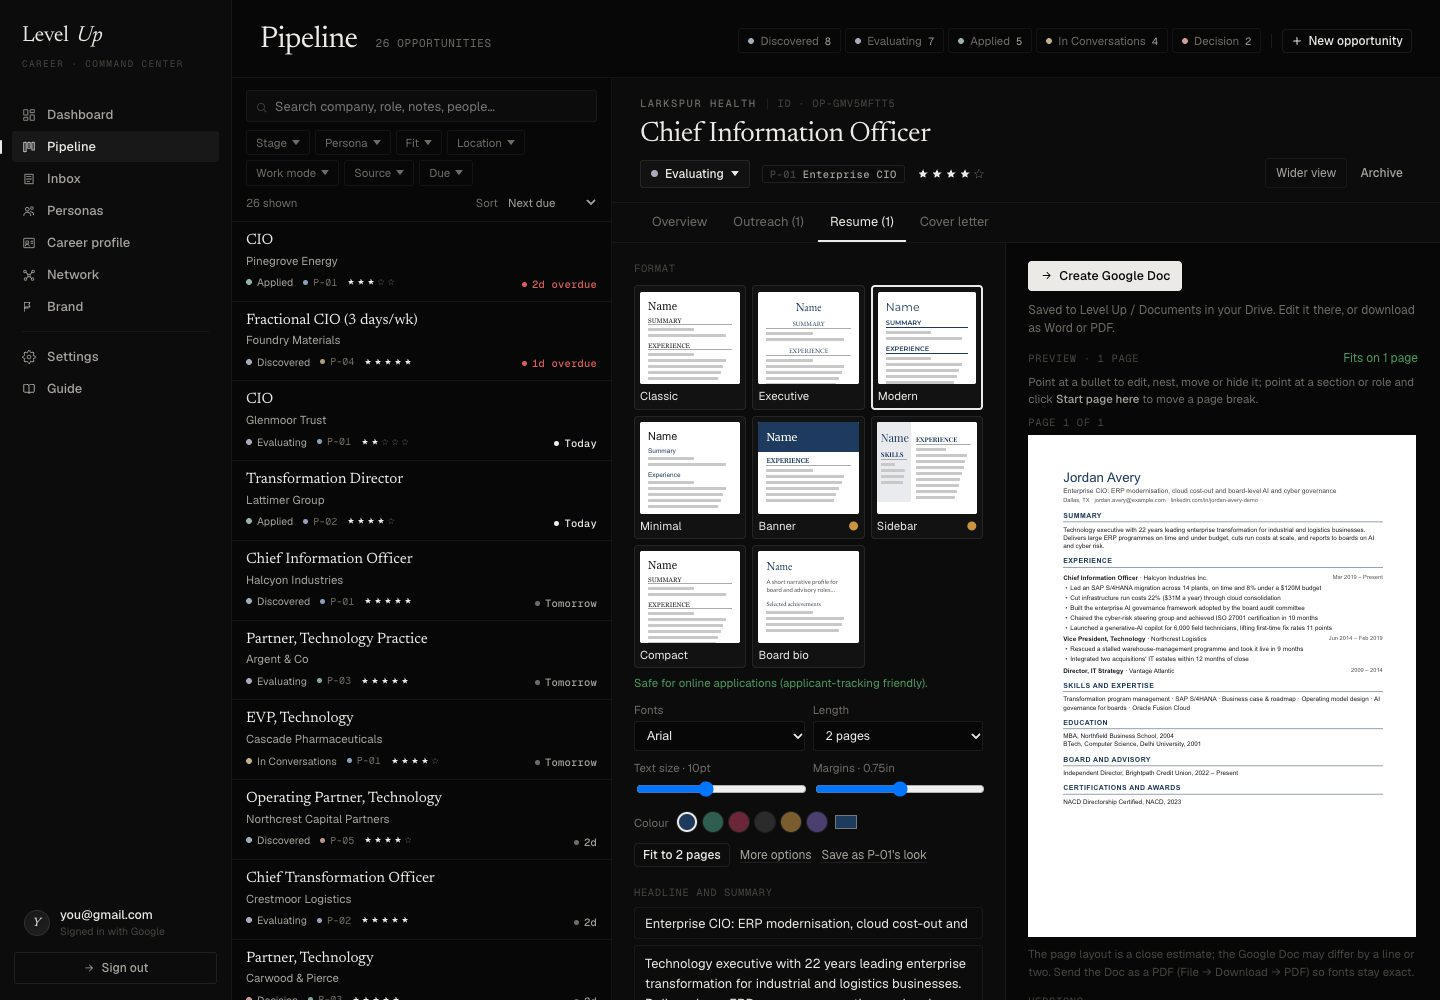
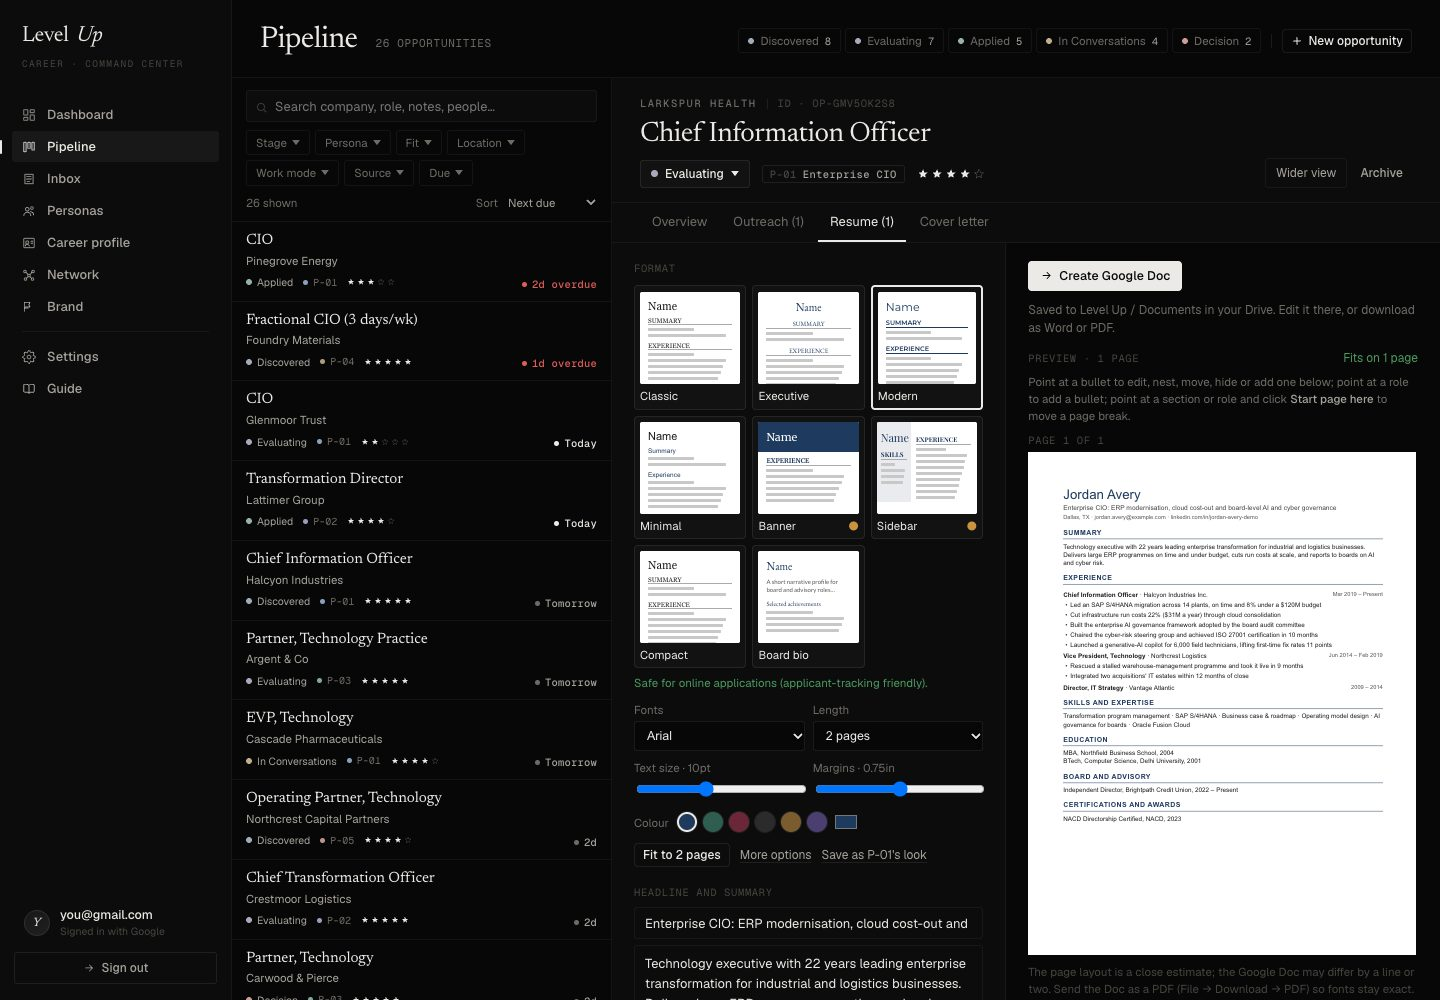
Resume: add your own bullets; list controls under each line
- + Add a bullet (list), + Bullet on role hover, + Below on bullet hover
- Your bullets stay in this resume only; Delete link; empty or cancelled ones removed
- Nest/move buttons moved under the text so wording gets full width

Changed region(s): [[0.7188, 0.372, 1.0, 0.837], [0.7188, 0.93, 1.0, 1.0]]

diff --git a/documents.jsx b/documents.jsx
@@ -169,8 +169,18 @@ function DocPreview({ model, targetPages, onMeasure, onBreaks, onBullet }) {
       paddingBottom: 2, margin: `${px(st.gap.section)}px 0 ${px(st.gap.para * 2)}px` }}>{st.caps ? t.toUpperCase() : t}</div>
   );
   const finishEdit = (save) => {
-    if (save && editing && onBullet) onBullet(editing.key, 'text', editing.text.replace(/\s*\n\s*/g, ' ').trim());
+    if (!editing) return;
+    const text = editing.text.replace(/\s*\n\s*/g, ' ').trim();
+    if (onBullet) {
+      // A bullet just added and left empty (or cancelled) is removed again.
+      if (editing.fresh && (!save || !text)) onBullet(editing.key, 'delete');
+      else if (save && text) onBullet(editing.key, 'text', text);
+    }
     setEditing(null);
+  };
+  const addBullet = (roleKey, afterKey) => {
+    const key = onBullet(roleKey, 'add', afterKey);
+    if (key) setEditing({ key, text: '', fresh: true });
   };
   const bullet = (t, j, level, key) => (
     <PvBullet key={j} text={t} level={level} mark={st.bullet} color={col} gap={px(st.gap.para)} scale={scale}
@@ -218,10 +228,10 @@ function DocPreview({ model, targetPages, onMeasure, onBreaks, onBullet }) {
       add('sec:' + sec.key, sectionHead(sec.title, false), { brk: true, keepNext: true, label: sec.title });
       if (sec.key === 'experience') {
         sec.items.forEach((x) => {
-          add(x.key, roleHead(x), { brk: true, keepNext: x.bullets.length > 0 });
+          add(x.key, roleHead(x), { brk: true, keepNext: x.bullets.length > 0, role: true });
           x.bullets.forEach((t, j) => {
             const key = (x.bulletKeys || [])[j] || x.key + ':' + j;
-            add(key, bullet(t, j, (x.bulletLevels || [])[j] || 0, key), { brk: true, tools: { text: t, level: (x.bulletLevels || [])[j] || 0, nest: j > 0, up: j > 0, down: j < x.bullets.length - 1 } });
+            add(key, bullet(t, j, (x.bulletLevels || [])[j] || 0, key), { brk: true, tools: { text: t, level: (x.bulletLevels || [])[j] || 0, nest: j > 0, up: j > 0, down: j < x.bullets.length - 1, role: x.key } });
           });
         });
       } else if (sec.key === 'highlights') sec.items.forEach((t, i) => { const key = (sec.itemKeys || [])[i] || 'highlights:' + i; add(key, bullet(t, i, 0, key), { brk: true, tools: { text: t, level: 0 } }); });
@@ -283,12 +293,13 @@ function DocPreview({ model, targetPages, onMeasure, onBreaks, onBullet }) {
   const blockView = ({ b, manual }, idx) => {
     const first = idx === 0;
     const tools = b.tools && onBullet && /^b:/.test(b.key) && hover === b.key && !(editing && editing.key === b.key);
-    const offer = canBreak && b.brk && !first && hover === b.key && !b.tools;
+    const roleTools = b.role && onBullet && hover === b.key && model.kind === 'resume' && !st.narrative;
+    const offer = canBreak && b.brk && !first && hover === b.key && !b.tools && !roleTools;
     const tb = { ...pill, position: 'static', background: '#1f3a5f', color: '#fff', borderRadius: 0 };
     const act = (a, v) => (e) => { e.stopPropagation(); setHover(null); onBullet(b.key, a, v); };
     return (
       <div key={b.key} style={{ display: 'flow-root', position: 'relative', outline: offer || tools ? `${1 / scale}px dashed #9aa7b8` : 'none', outlineOffset: 2 / scale }}
-        onMouseEnter={(canBreak && b.brk) || b.tools ? () => setHover(b.key) : undefined}>
+        onMouseEnter={(canBreak && b.brk) || b.tools || b.role ? () => setHover(b.key) : undefined}>
         {tools && (
           <div style={{ position: 'absolute', zIndex: 3, right: 0, bottom: '100%', display: 'flex', gap: 1 / scale, borderRadius: 3 / scale, overflow: 'hidden', boxShadow: '0 1px 4px rgba(0,0,0,0.25)' }}>
             <button style={tb} title="Reword this bullet on the page" onClick={(e) => { e.stopPropagation(); setEditing({ key: b.key, text: b.tools.text }); setHover(null); }}>Edit</button>
@@ -296,7 +307,14 @@ function DocPreview({ model, targetPages, onMeasure, onBreaks, onBullet }) {
             {b.tools.up && <button style={tb} title="Move up" onClick={act('move', -1)}>↑</button>}
             {b.tools.down && <button style={tb} title="Move down" onClick={act('move', 1)}>↓</button>}
             <button style={tb} title="Leave this bullet out (tick it again on the left)" onClick={act('hide')}>Hide</button>
+            <button style={tb} title="Add your own bullet below this one" onClick={(e) => { e.stopPropagation(); setHover(null); addBullet(b.tools.role, b.key); }}>+ Below</button>
             {canBreak && !first && <button style={tb} title="Move this and everything after it to the next page" onClick={(e) => { e.stopPropagation(); setBreak(b.key, true); setHover(null); }}>↵ New page</button>}
+          </div>
+        )}
+        {roleTools && (
+          <div style={{ position: 'absolute', zIndex: 3, right: 0, bottom: '100%', display: 'flex', gap: 1 / scale, borderRadius: 3 / scale, overflow: 'hidden', boxShadow: '0 1px 4px rgba(0,0,0,0.25)' }}>
+            <button style={tb} title="Add your own bullet at the top of this role" onClick={(e) => { e.stopPropagation(); setHover(null); addBullet(b.key, null); }}>+ Bullet</button>
+            {canBreak && !first && <button style={tb} title="Move this role and everything after it to the next page" onClick={(e) => { e.stopPropagation(); setBreak(b.key, true); setHover(null); }}>↵ Start page here</button>}
           </div>
         )}
         {offer && (
@@ -322,7 +340,7 @@ function DocPreview({ model, targetPages, onMeasure, onBreaks, onBullet }) {
       </div>
       {canBreak && (
         <div style={{ fontSize: 11.5, color: 'var(--ink-3)', marginBottom: 8 }}>
-          Point at a bullet to edit, nest, move or hide it; point at a section or role and click <b style={{ color: 'var(--ink-2)', fontWeight: 500 }}>Start page here</b> to move a page break.
+          Point at a bullet to edit, nest, move, hide or add one below; point at a role to add a bullet; point at a section or role and click <b style={{ color: 'var(--ink-2)', fontWeight: 500 }}>Start page here</b> to move a page break.
           {manualCount > 0 && <> {manualCount} break{manualCount === 1 ? '' : 's'} added · <button style={docLink} onClick={() => onBreaks([])}>Remove all</button></>}
         </div>
       )}
@@ -491,8 +509,9 @@ function ResumeWorkspace({ opp, onUpdate }) {
     window.LU_CORE.pill('Resume marked as sent');
   };
   // Bullet edits from the page preview or the list: reword, nest, move, hide.
+  const isCustom = (id) => !!(st.items[id] && st.items[id].custom);
   const roleList = (roleId) => {
-    const order = ((st.order && st.order[roleId]) || []).filter((id) => ach.some((a) => a.id === id));
+    const order = ((st.order && st.order[roleId]) || []).filter((id) => ach.some((a) => a.id === id) || isCustom(id));
     return [...order, ...ach.filter((a) => a.roleId === roleId && !order.includes(a.id)).map((a) => a.id)];
   };
   const moveItem = (roleId, id, dir) => {
@@ -504,13 +523,35 @@ function ResumeWorkspace({ opp, onUpdate }) {
     next.splice(j, 0, id);
     save({ ...st, order: { ...(st.order || {}), [roleId]: next } });
   };
+  // Your own bullets: kept in this resume only (items[id].custom), never added to the Career profile.
+  const addCustom = (roleId, afterId, text) => {
+    const id = 'my-' + Date.now().toString(36) + Math.random().toString(36).slice(2, 5);
+    const ids = roleList(roleId), at = afterId ? ids.indexOf(afterId) + 1 : 0;
+    const next = [...ids];
+    next.splice(at > 0 ? at : afterId ? ids.length : 0, 0, id);
+    save({ ...st, items: { ...st.items, [id]: { on: true, text, original: null, custom: true, roleId } }, order: { ...(st.order || {}), [roleId]: next } });
+    return id;
+  };
+  const deleteCustom = (id) => {
+    const it = st.items[id];
+    if (!it || !it.custom) return;
+    const items = { ...st.items };
+    delete items[id];
+    save({ ...st, items, order: { ...(st.order || {}), [it.roleId]: ((st.order && st.order[it.roleId]) || []).filter((x) => x !== id) } });
+  };
   const bulletAction = (key, action, value) => {
-    const id = String(key).replace(/^b:/, ''), a = ach.find((x) => x.id === id);
-    if (!a || !st.items[id]) return;
+    if (action === 'add') {
+      const roleId = String(key).replace(/^role:/, '');
+      return 'b:' + addCustom(roleId, value ? String(value).replace(/^b:/, '') : null, 'New bullet');
+    }
+    const id = String(key).replace(/^b:/, ''), it = st.items[id];
+    if (!it) return;
+    const roleId = it.custom ? it.roleId : (ach.find((x) => x.id === id) || {}).roleId;
     if (action === 'text') { if (value) setItem(id, { text: value }); }
+    else if (action === 'delete') deleteCustom(id);
     else if (action === 'level') setItem(id, { level: value });
     else if (action === 'hide') setItem(id, { on: false });
-    else if (action === 'move') moveItem(a.roleId, id, value);
+    else if (action === 'move' && roleId) moveItem(roleId, id, value);
   };
   const STATUS = { covered: ['✓', 'oklch(62% 0.12 150)'], partial: ['◐', 'oklch(70% 0.12 75)'], gap: ['▲', 'var(--signal)'] };
   const ach = c.achievements || [];
@@ -546,7 +587,7 @@ function ResumeWorkspace({ opp, onUpdate }) {
         {roles.map((r) => {
           const mode = (st.roles[r.id] && st.roles[r.id].mode) || 'full';
           const order = (st.order && st.order[r.id]) || [];
-          const list = [...order.map((id) => ach.find((a) => a.id === id)).filter(Boolean), ...ach.filter((a) => a.roleId === r.id && !order.includes(a.id))];
+          const list = [...order.map((id) => ach.find((a) => a.id === id) || (isCustom(id) ? { id, text: st.items[id].text, roleId: r.id, custom: true } : null)).filter(Boolean), ...ach.filter((a) => a.roleId === r.id && !order.includes(a.id))];
           return (
             <div key={r.id} style={{ borderTop: '1px solid var(--line-1)', padding: '10px 0' }}>
               <div style={{ display: 'flex', gap: 8, alignItems: 'baseline', justifyContent: 'space-between' }}>
@@ -563,24 +604,32 @@ function ResumeWorkspace({ opp, onUpdate }) {
                 return (
                   <div key={a.id} style={{ display: 'flex', gap: 8, alignItems: 'flex-start', padding: '4px 0', paddingLeft: it.on && it.level && pos > 0 ? 22 : 0 }}>
                     <input type="checkbox" checked={!!it.on} onChange={(e) => setItem(a.id, { on: e.target.checked })} style={{ marginTop: 6 }}/>
-                    <textarea value={it.text} onChange={(e) => setItem(a.id, { text: e.target.value })} rows={Math.max(1, Math.ceil(it.text.length / 70))}
-                      title={it.original && it.original !== it.text ? 'Your original: ' + it.original : ''}
-                      style={{ flex: 1, resize: 'vertical', fontFamily: 'var(--sans)', fontSize: 12.5, lineHeight: 1.45, padding: '3px 6px', background: 'transparent',
-                        color: it.on ? 'var(--ink-1)' : 'var(--ink-4)', border: '1px solid ' + (it.on ? 'var(--line-1)' : 'transparent'), borderRadius: 3 }}/>
-                    {(it.on || (it.original && it.original !== it.text)) && (
-                      <div style={{ display: 'flex', flexDirection: 'column', gap: 3, marginTop: 2 }}>
-                        {it.on && <div style={{ display: 'flex', gap: 3 }}>
-                          <button style={{ ...mini, opacity: pos > 0 ? 1 : 0.35 }} disabled={pos <= 0} title={it.level ? 'Make it a main bullet again' : 'Nest it under the bullet above'}
-                            onClick={() => setItem(a.id, { level: it.level ? 0 : 1 })}>{it.level ? '←' : '→'}</button>
-                          <button style={{ ...mini, opacity: pos > 0 ? 1 : 0.35 }} disabled={pos <= 0} title="Move up" onClick={() => moveItem(r.id, a.id, -1)}>↑</button>
-                          <button style={{ ...mini, opacity: pos < onList.length - 1 ? 1 : 0.35 }} disabled={pos >= onList.length - 1} title="Move down" onClick={() => moveItem(r.id, a.id, 1)}>↓</button>
-                        </div>}
-                        {it.original && it.original !== it.text && <button style={{ ...docLink, fontSize: 11 }} title={it.original} onClick={() => setItem(a.id, { text: it.original })}>Original</button>}
-                      </div>
-                    )}
+                    <div style={{ flex: 1, minWidth: 0 }}>
+                      <textarea value={it.text} onChange={(e) => setItem(a.id, { text: e.target.value })} rows={Math.max(1, Math.ceil(it.text.length / 60))}
+                        placeholder={a.custom ? 'Type your new bullet' : ''} autoFocus={!!(a.custom && !it.text)}
+                        title={it.original && it.original !== it.text ? 'Your original: ' + it.original : ''}
+                        style={{ width: '100%', boxSizing: 'border-box', resize: 'vertical', fontFamily: 'var(--sans)', fontSize: 12.5, lineHeight: 1.45, padding: '3px 6px', background: 'transparent',
+                          color: it.on ? 'var(--ink-1)' : 'var(--ink-4)', border: '1px solid ' + (it.on ? 'var(--line-1)' : 'transparent'), borderRadius: 3 }}/>
+                      {/* Controls sit under the text so the wording gets the full width */}
+                      {(it.on || a.custom || (it.original && it.original !== it.text)) && (
+                        <div style={{ display: 'flex', gap: 4, alignItems: 'center', flexWrap: 'wrap', marginTop: 3 }}>
+                          {it.on && <>
+                            <button style={{ ...mini, opacity: pos > 0 ? 1 : 0.35 }} disabled={pos <= 0} title={it.level ? 'Make it a main bullet again' : 'Nest it under the bullet above'}
+                              onClick={() => setItem(a.id, { level: it.level ? 0 : 1 })}>{it.level ? '← Bullet' : '→ Sub-bullet'}</button>
+                            <button style={{ ...mini, opacity: pos > 0 ? 1 : 0.35 }} disabled={pos <= 0} title="Move up" onClick={() => moveItem(r.id, a.id, -1)}>↑</button>
+                            <button style={{ ...mini, opacity: pos < onList.length - 1 ? 1 : 0.35 }} disabled={pos >= onList.length - 1} title="Move down" onClick={() => moveItem(r.id, a.id, 1)}>↓</button>
+                          </>}
+                          {it.original && it.original !== it.text && <button style={{ ...docLink, fontSize: 11 }} title={it.original} onClick={() => setItem(a.id, { text: it.original })}>Original</button>}
+                          {a.custom && <span style={{ fontSize: 11, color: 'var(--ink-4)' }}>Your bullet · <button style={{ ...docLink, fontSize: 11 }} title="Delete this bullet" onClick={() => deleteCustom(a.id)}>Delete</button></span>}
+                        </div>
+                      )}
+                    </div>
                   </div>
                 );
               })}
+              {mode === 'full' && (
+                <button style={{ ...docLink, fontSize: 12, marginTop: 4 }} onClick={() => addCustom(r.id, list.length ? list[list.length - 1].id : null, '')}>+ Add a bullet</button>
+              )}
             </div>
           );
         })}

diff --git a/guide.jsx b/guide.jsx
@@ -151,7 +151,8 @@ const GUIDE_CHAPTERS = [
       <GSteps items={[
         <>Open the <B>Resume</B> tab, choose 1 or 2 pages and click <B>Tailor with Claude</B> (about 3–5¢, under a minute). Claude reads the job, the company profile, your persona and your whole Career profile.</>,
         <>It proposes a <B>headline</B>, a <B>summary</B>, and which achievements to show under each role, most relevant first, with wording tightened for this job (facts never change; hover a line or click <B>Original</B> to see your own words). Older roles can be <B>Title line only</B> or <B>Leave out</B>.</>,
-        <>Tick or untick lines and edit any of them. You can also work straight on the page: point at a bullet in the preview for <B>Edit</B> (type, then Enter to save or Esc to cancel), <B>→ Sub-bullet</B> (nests it under the bullet above; <B>← Bullet</B> undoes it), <B>↑ ↓</B> to reorder, <B>Hide</B> and <B>New page</B>. The list on the left has the same → ↑ ↓ buttons. Sub-bullets come through as nested bullets in the Google Doc. <B>Job match</B> shows what the role asks for (✓ covered, ◐ partly, ▲ gap) and <B>Check before sending</B> lists what to verify.</>,
+        <>Tick or untick lines and edit any of them. You can also work straight on the page: point at a bullet in the preview for <B>Edit</B> (type, then Enter to save or Esc to cancel), <B>→ Sub-bullet</B> (nests it under the bullet above; <B>← Bullet</B> undoes it), <B>↑ ↓</B> to reorder, <B>Hide</B>, <B>+ Below</B> and <B>New page</B>. The list on the left has the same buttons under each line. Sub-bullets come through as nested bullets in the Google Doc. <B>Job match</B> shows what the role asks for (✓ covered, ◐ partly, ▲ gap) and <B>Check before sending</B> lists what to verify.</>,
+        <><B>Add your own bullet</B>: <B>+ Add a bullet</B> under a role in the list, <B>+ Bullet</B> when you point at a role title on the page, or <B>+ Below</B> on a bullet. Type it and press Enter (Esc or leaving it empty removes it). Your bullets belong to this resume only, are marked <B>Your bullet</B> with a <B>Delete</B> link, and are not added to your Career profile. <B>Tailor again</B> replaces them along with your other edits.</>,
         <>Choose the look from eight templates: <B>Classic</B>, <B>Executive</B> (centred header), <B>Modern</B>, <B>Minimal</B>, <B>Banner</B> (coloured name block), <B>Sidebar</B> (two columns), <B>Compact</B> (dense one-pager) and <B>Board bio</B> (profile, selected achievements, short career history). A dot marks the two that suit emailing better than online applications. Then set fonts (pairs that Google Docs also has), text size, margins and colour. The preview updates as you go and says whether it fits (for example "About 2 lines over 1 page"); <B>Fit to 1 page</B> (or 2) tightens spacing, margins and then text size step by step until it fits.</>,
         <>The preview shows each page separately (<B>Page 1 of 2</B>…). To move a page break, point at a section heading, role or bullet and click <B>Start page here</B>: it and everything after it move to the next page. <B>Remove</B> (above that page) undoes it, and <B>Remove all</B> clears every break you added. The breaks carry into the Google Doc, and headings always stay with the text below them. (Not available in the Sidebar template.)</>,
         <><B>More options</B>: line and section spacing, paper size, dates beside or under the title, title or company first, bullet style, headings in capitals, which contact details to show, and the sections: reorder them (↑ ↓), rename a heading (for example "Selected achievements") or hide one.</>,
@@ -436,6 +437,7 @@ const GUIDE_CHAPTERS = [
     body: () => <>
       {[
         ['12 Oct 2026', [
+          'Resumes: add your own bullets to any role (in the list, or on the page with + Bullet / + Below). The list now puts each line\u2019s buttons underneath it, so the wording gets the full width.',
           'Resumes: edit bullets right on the page preview, nest a bullet as a sub-bullet under the one above, and reorder bullets with ↑ ↓ (also in the list on the left). Sub-bullets carry into the Google Doc.',
           'Resume preview now shows separate pages, and you can move page breaks: point at a section, role or bullet and click Start page here. The breaks carry into the Google Doc.',
           'Pipeline is now a searchable list with the selected opportunity beside it, instead of stage columns. Stage is a detail you change on the opportunity. New key facts (location, work mode, compensation, industry, company size, date added) can be filtered, alongside stage, persona, fit, source and due date. Existing opportunities got their date added from the Inbox where it was known.',

diff --git a/documents-store.js b/documents-store.js
@@ -110,7 +110,8 @@
       if (mode === 'omit') return null;
       const order = (state.order && state.order[r.id]) || [];
       const ids = [...order, ...c.achievements.filter((a) => a.roleId === r.id).map((a) => a.id).filter((id) => !order.includes(id))];
-      const onIds = mode === 'brief' ? [] : ids.filter((id) => state.items && state.items[id] && state.items[id].on);
+      // Bullets you added yourself (items with custom: true) live only in this resume's order.
+      const onIds = mode === 'brief' ? [] : ids.filter((id) => state.items && state.items[id] && state.items[id].on && String(state.items[id].text || '').trim());
       const bullets = onIds.map((id) => state.items[id].text);
       // Keys name each block so a manual page break can sit before it.
       // level 1 = a sub-bullet under the bullet above it.

diff --git a/sw.js b/sw.js
@@ -6,7 +6,7 @@
 // All fetches skip the browser's HTTP cache (GitHub Pages sends max-age=600),
 // otherwise a new version can be filled with the previous version's files.
 
-const CACHE_NAME = 'levelup-gh-v32';
+const CACHE_NAME = 'levelup-gh-v33';
 const PRECACHE = [
   './', 'index.html', 'manifest.json', 'icon.svg', 'icon-maskable.svg', 'lu-store.js', 'linkedin-bookmarklet.js', 'career-store.js', 'outreach-store.js', 'documents-store.js', 'career.jsx', 'career-map.jsx', 'documents.jsx',
   'app.jsx', 'bits.jsx', 'brand.jsx', 'curator.jsx', 'dashboard.jsx', 'detail.jsx', 'inbox.jsx',
